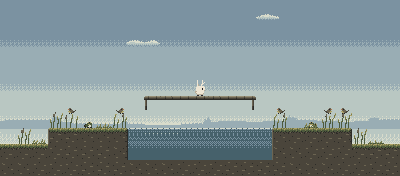
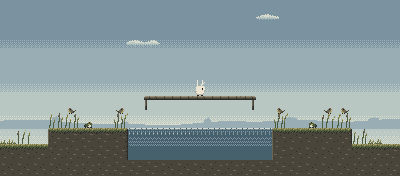
The landing's pictures, from the release world
All five carousel pictures retaken with scripts/site-shots from a build of
the site on master 0cbb306 ("Version 0.1.0"). The two Hollow pictures are
now CONTENT's real rooms: 5,3, the creature on the ring of standing stones
(the new hero and share image), and 4,3, the bowl with its two ring-stones.
They replace LOOK's fixture-world tarn and tor. The Reedfen pictures show
the release art.

diff --git a/site/index.html b/site/index.html
@@ -10,7 +10,7 @@
   <meta property="og:description" content="A quiet little platformer about listening.">
   <meta property="og:type" content="website">
   <meta property="og:url" content="https://harkfell.com/">
-  <meta property="og:image" content="https://harkfell.com/shots/hollow-tarn.png">
+  <meta property="og:image" content="https://harkfell.com/shots/hollow-stones.png">
   <link rel="icon" type="image/png" href="/favicon.png">
   <link rel="preload" href="/fonts/im-fell-english-sc.woff2" as="font" type="font/woff2" crossorigin>
   <link rel="preload" href="/fonts/im-fell-english-roman.woff2" as="font" type="font/woff2" crossorigin>
@@ -27,22 +27,22 @@
 
     <div class="carousel" data-interval="6000">
       <div class="frames">
-        <img class="shot shown" src="/shots/hollow-tarn.png" width="400" height="176"
-             alt="A small white long-eared creature beside a still tarn in the Hollow at dawn, with mossy stone steps behind it.">
+        <img class="shot shown" src="/shots/hollow-stones.png" width="400" height="176"
+             alt="A small white long-eared creature standing on one of a ring of old standing stones in the Hollow at dawn, with small birds perched on the reeds between them.">
         <img class="shot" src="/shots/reedfen-bridge.png" width="400" height="176" aria-hidden="true"
              alt="Reedfen: the creature on a wooden bridge over open water, with reeds and small birds on either bank.">
         <img class="shot" src="/shots/reedfen-reeds.png" width="400" height="176" aria-hidden="true"
              alt="Reedfen: tall reeds with small birds perched on them, under a wide grey-blue sky.">
-        <img class="shot" src="/shots/hollow-tor.png" width="400" height="176" aria-hidden="true"
-             alt="The Hollow at dawn: the creature at the foot of a stepped limestone tor.">
+        <img class="shot" src="/shots/hollow-bowl.png" width="400" height="176" aria-hidden="true"
+             alt="The bowl of the Hollow at dawn: the creature beside two carved ring-stones set into the limestone.">
         <img class="shot" src="/shots/under-the-fen.png" width="400" height="176" aria-hidden="true"
              alt="A dark cave under the fen, with a pool of still water and reeds growing in the gloom.">
       </div>
       <div class="dots" role="group" aria-label="Pictures of Harkfell">
-        <button type="button" aria-label="The Hollow tarn" aria-current="true"></button>
+        <button type="button" aria-label="The standing stones in the Hollow" aria-current="true"></button>
         <button type="button" aria-label="The bridge in Reedfen"></button>
         <button type="button" aria-label="Reeds in Reedfen"></button>
-        <button type="button" aria-label="The tor in the Hollow"></button>
+        <button type="button" aria-label="The bowl of the Hollow"></button>
         <button type="button" aria-label="Under the fen"></button>
       </div>
     </div>
